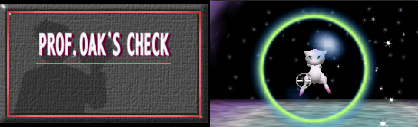
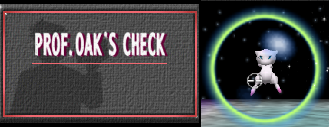
Trim the Oak map so it draws taller in the same width
It was filling the panel's width already, so nothing could make it bigger
while it stayed 3.3 times wider than tall - a picture that wide can only use a
band of a roughly 2:1 slot, and the rest shows as black above and below.

Trimming narrows it, which makes it render taller and larger in the same
width. The banner's red border runs nearly edge to edge so it gives up only a
few pixels, but the Mew scene is mostly empty starfield with the ring at
x=49..158, so it loses 40 from the left and 40 from the right and stays
centred. 418x127 becomes 329x127: aspect 2.59 instead of 3.29, so roughly a
quarter taller on screen.

All four pins remapped and checked against the new canvas. The release button
is not anchored to any art, so it just sits in the corner of the Mew panel.

diff --git a/tools/make_oak_map.py b/tools/make_oak_map.py
@@ -26,6 +26,17 @@ OUT = CUR
 SPLIT = 119          # first row of the Mew scene; the banner's red edge ends at 118
 GAP = 2              # a thin seam so the two scenes read as separate panels
 
+# How wide the picture ends up decides how large it draws. The slot is roughly
+# 2:1, so a very wide picture uses only a band of it and leaves black above and
+# below. Trimming narrows the picture, which makes it render taller and bigger
+# in the same width.
+#
+# The banner cannot give much: its red border runs x=7..200. The Mew scene is
+# mostly empty starfield, with the ring only at x=49..158, so it can lose a
+# lot from both sides and stay centred on the ring.
+TOP_CROP = (4, 203)        # keeps the red border with a 3px margin
+BOTTOM_CROP = (40, 168)    # centred on the ring
+
 
 def main():
     # first run: preserve the original tall art under its own name
@@ -35,31 +46,39 @@ def main():
 
     im = Image.open(SRC).convert("RGB")
     w, h = im.size
-    top = im.crop((0, 0, w, SPLIT))          # Prof. Oak's Check
-    bottom = im.crop((0, SPLIT, w, h))       # Mew on the Rainbow Cloud
+    top = im.crop((TOP_CROP[0], 0, TOP_CROP[1], SPLIT))         # Prof. Oak's Check
+    bottom = im.crop((BOTTOM_CROP[0], SPLIT, BOTTOM_CROP[1], h))  # Mew on the Cloud
 
     height = max(top.height, bottom.height)
-    out = Image.new("RGB", (w * 2 + GAP, height), (0, 0, 0))
+    out = Image.new("RGB", (top.width + GAP + bottom.width, height), (0, 0, 0))
     top_y = (height - top.height) // 2
+    bottom_x = top.width + GAP
+    bottom_y = (height - bottom.height) // 2
     out.paste(top, (0, top_y))
-    out.paste(bottom, (w + GAP, (height - bottom.height) // 2))
+    out.paste(bottom, (bottom_x, bottom_y))
     out.save(OUT)
 
     print(f"wrote {OUT.relative_to(PACK).as_posix()}  {out.width}x{out.height}"
-          f"  (was {w}x{h})")
+          f"  (source was {w}x{h})")
     print(f"aspect {out.width / out.height:.2f} wide, was {w / h:.2f}")
     print()
-    print("pin coordinates for locations/oakmew.json:")
+    print("pin coordinates:")
     for name, (x, y) in {
-        "Report Scores":       (78, 85),
+        "Report Scores":        (78, 85),
         "Pokemon Photographed": (130, 85),
-        "Mew":                 (104, 155),
+        "Mew":                  (104, 155),
     }.items():
         if y < SPLIT:
-            nx, ny = x, y + top_y
+            nx, ny = x - TOP_CROP[0], y + top_y
         else:
-            nx, ny = x + w + GAP, (y - SPLIT) + (height - bottom.height) // 2
-        print(f"    {name:<22} ({x},{y})  ->  ({nx},{ny})")
+            nx = (x - BOTTOM_CROP[0]) + bottom_x
+            ny = (y - SPLIT) + bottom_y
+        inside = 0 <= nx < out.width and 0 <= ny < out.height
+        print(f"    {name:<22} ({x},{y})  ->  ({nx},{ny})"
+              f"{'' if inside else '   OFF-CANVAS'}")
+    # the release button is not anchored to any art, so it just sits in the
+    # bottom-right of the Mew panel rather than being mapped from the original
+    print(f"    {'Release button':<22} -> ({out.width - 12},{out.height - 14})")
     return 0
 
 
